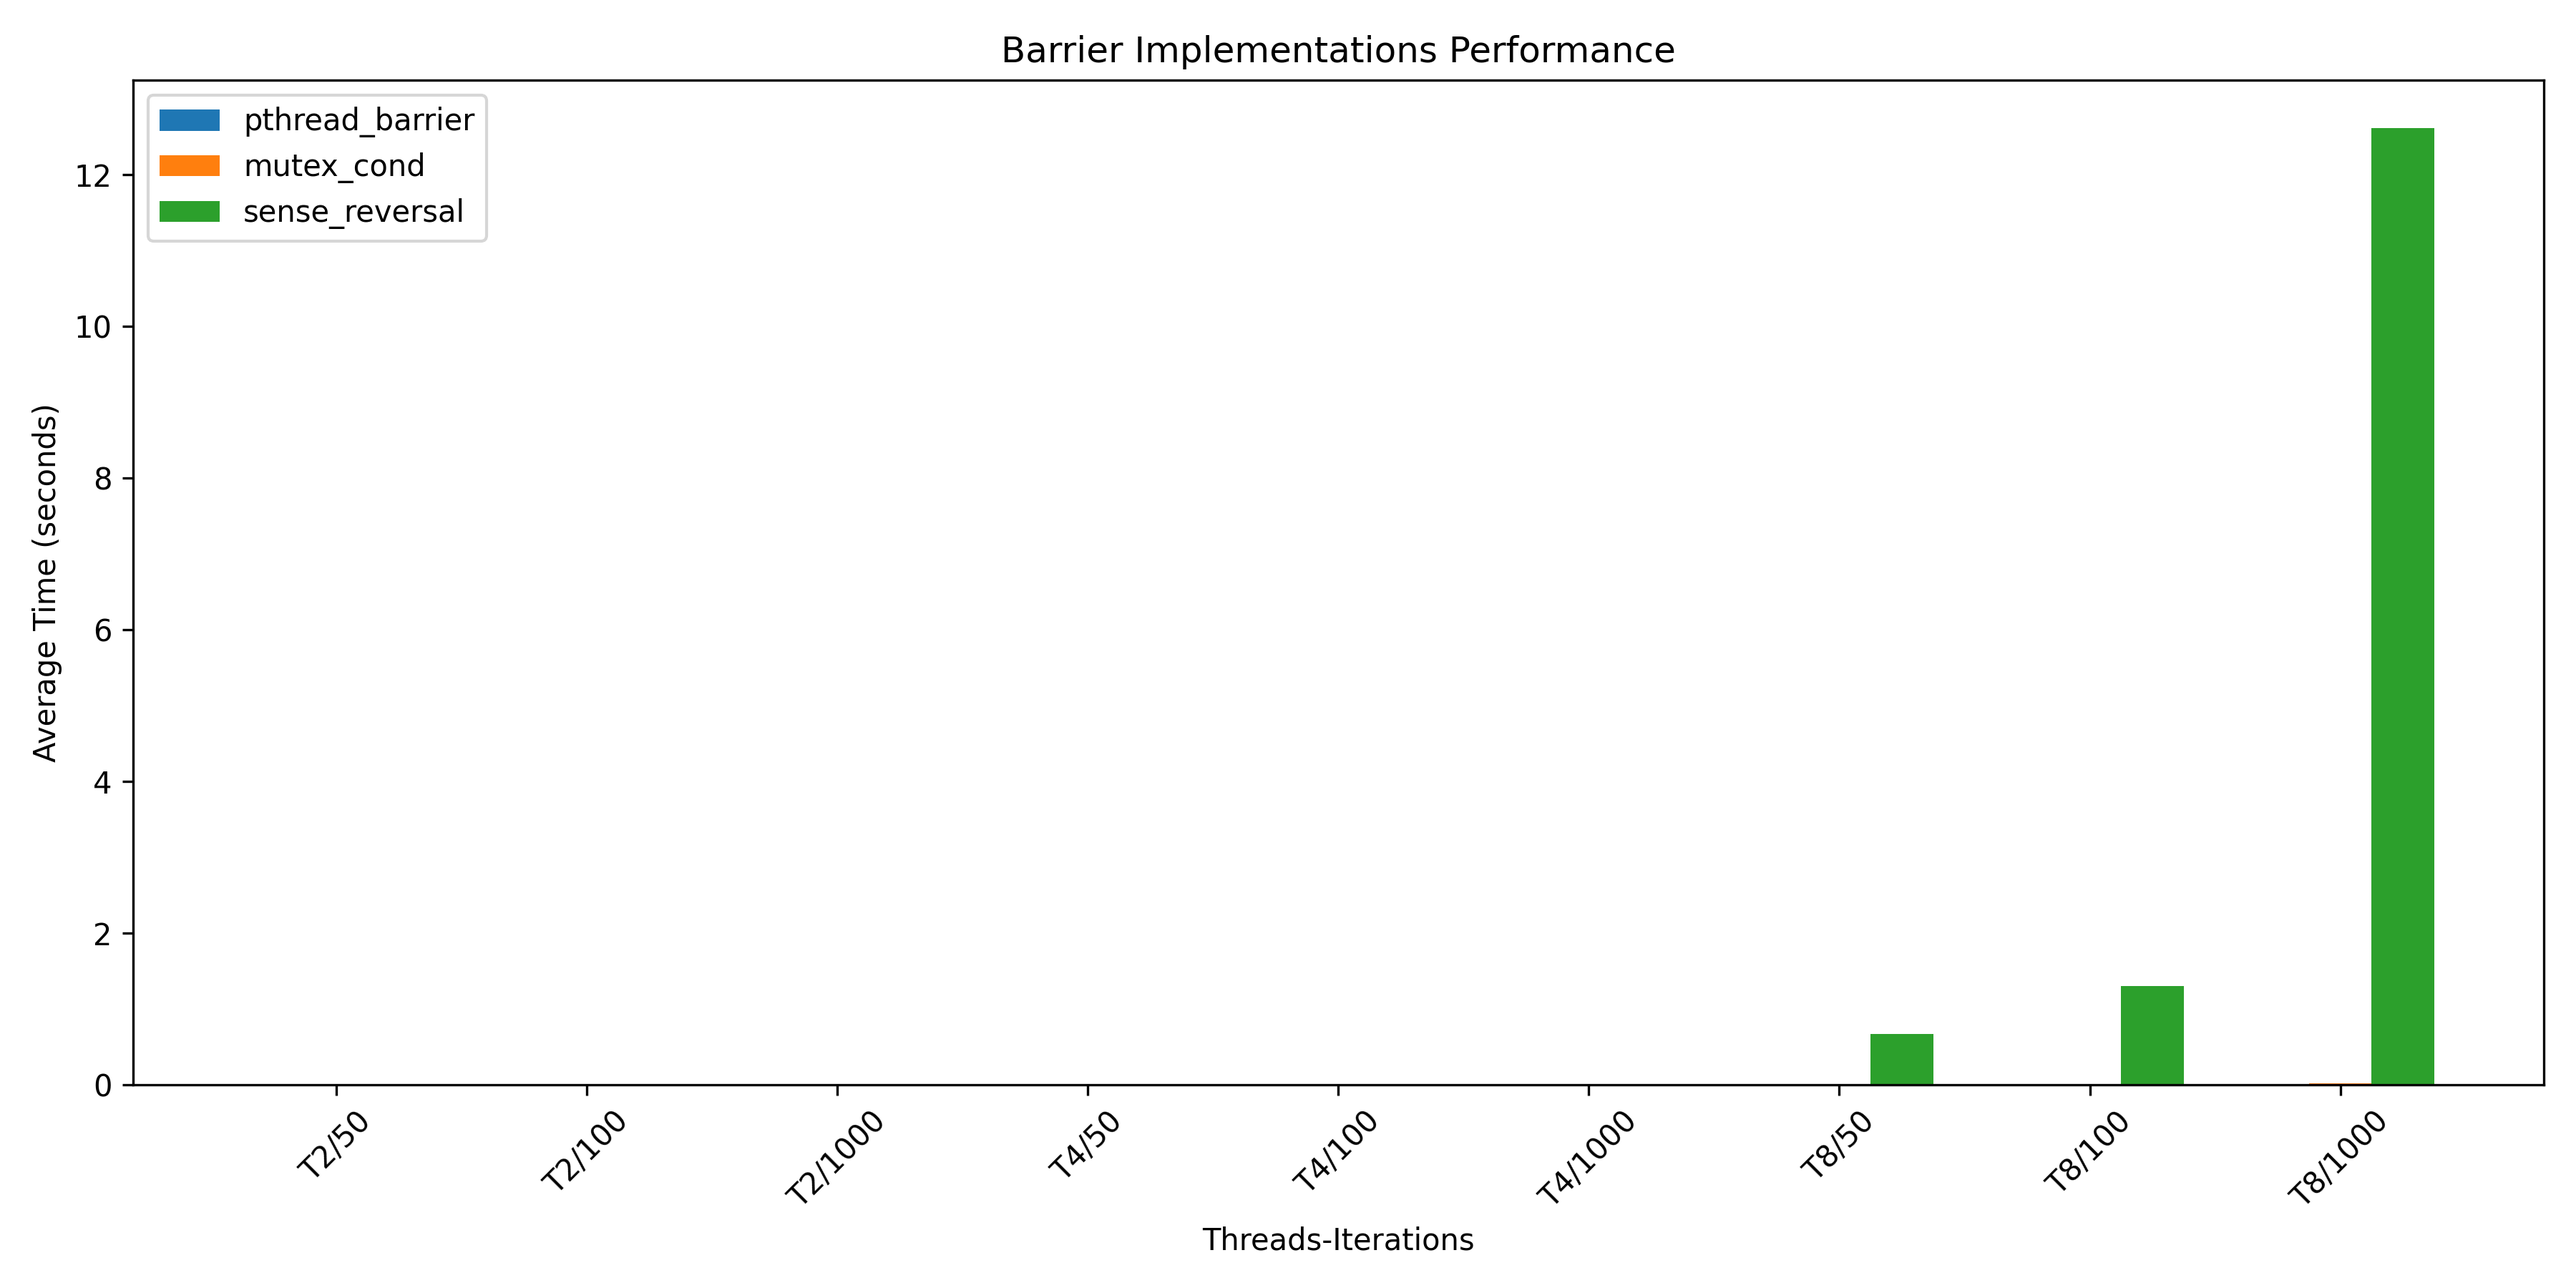
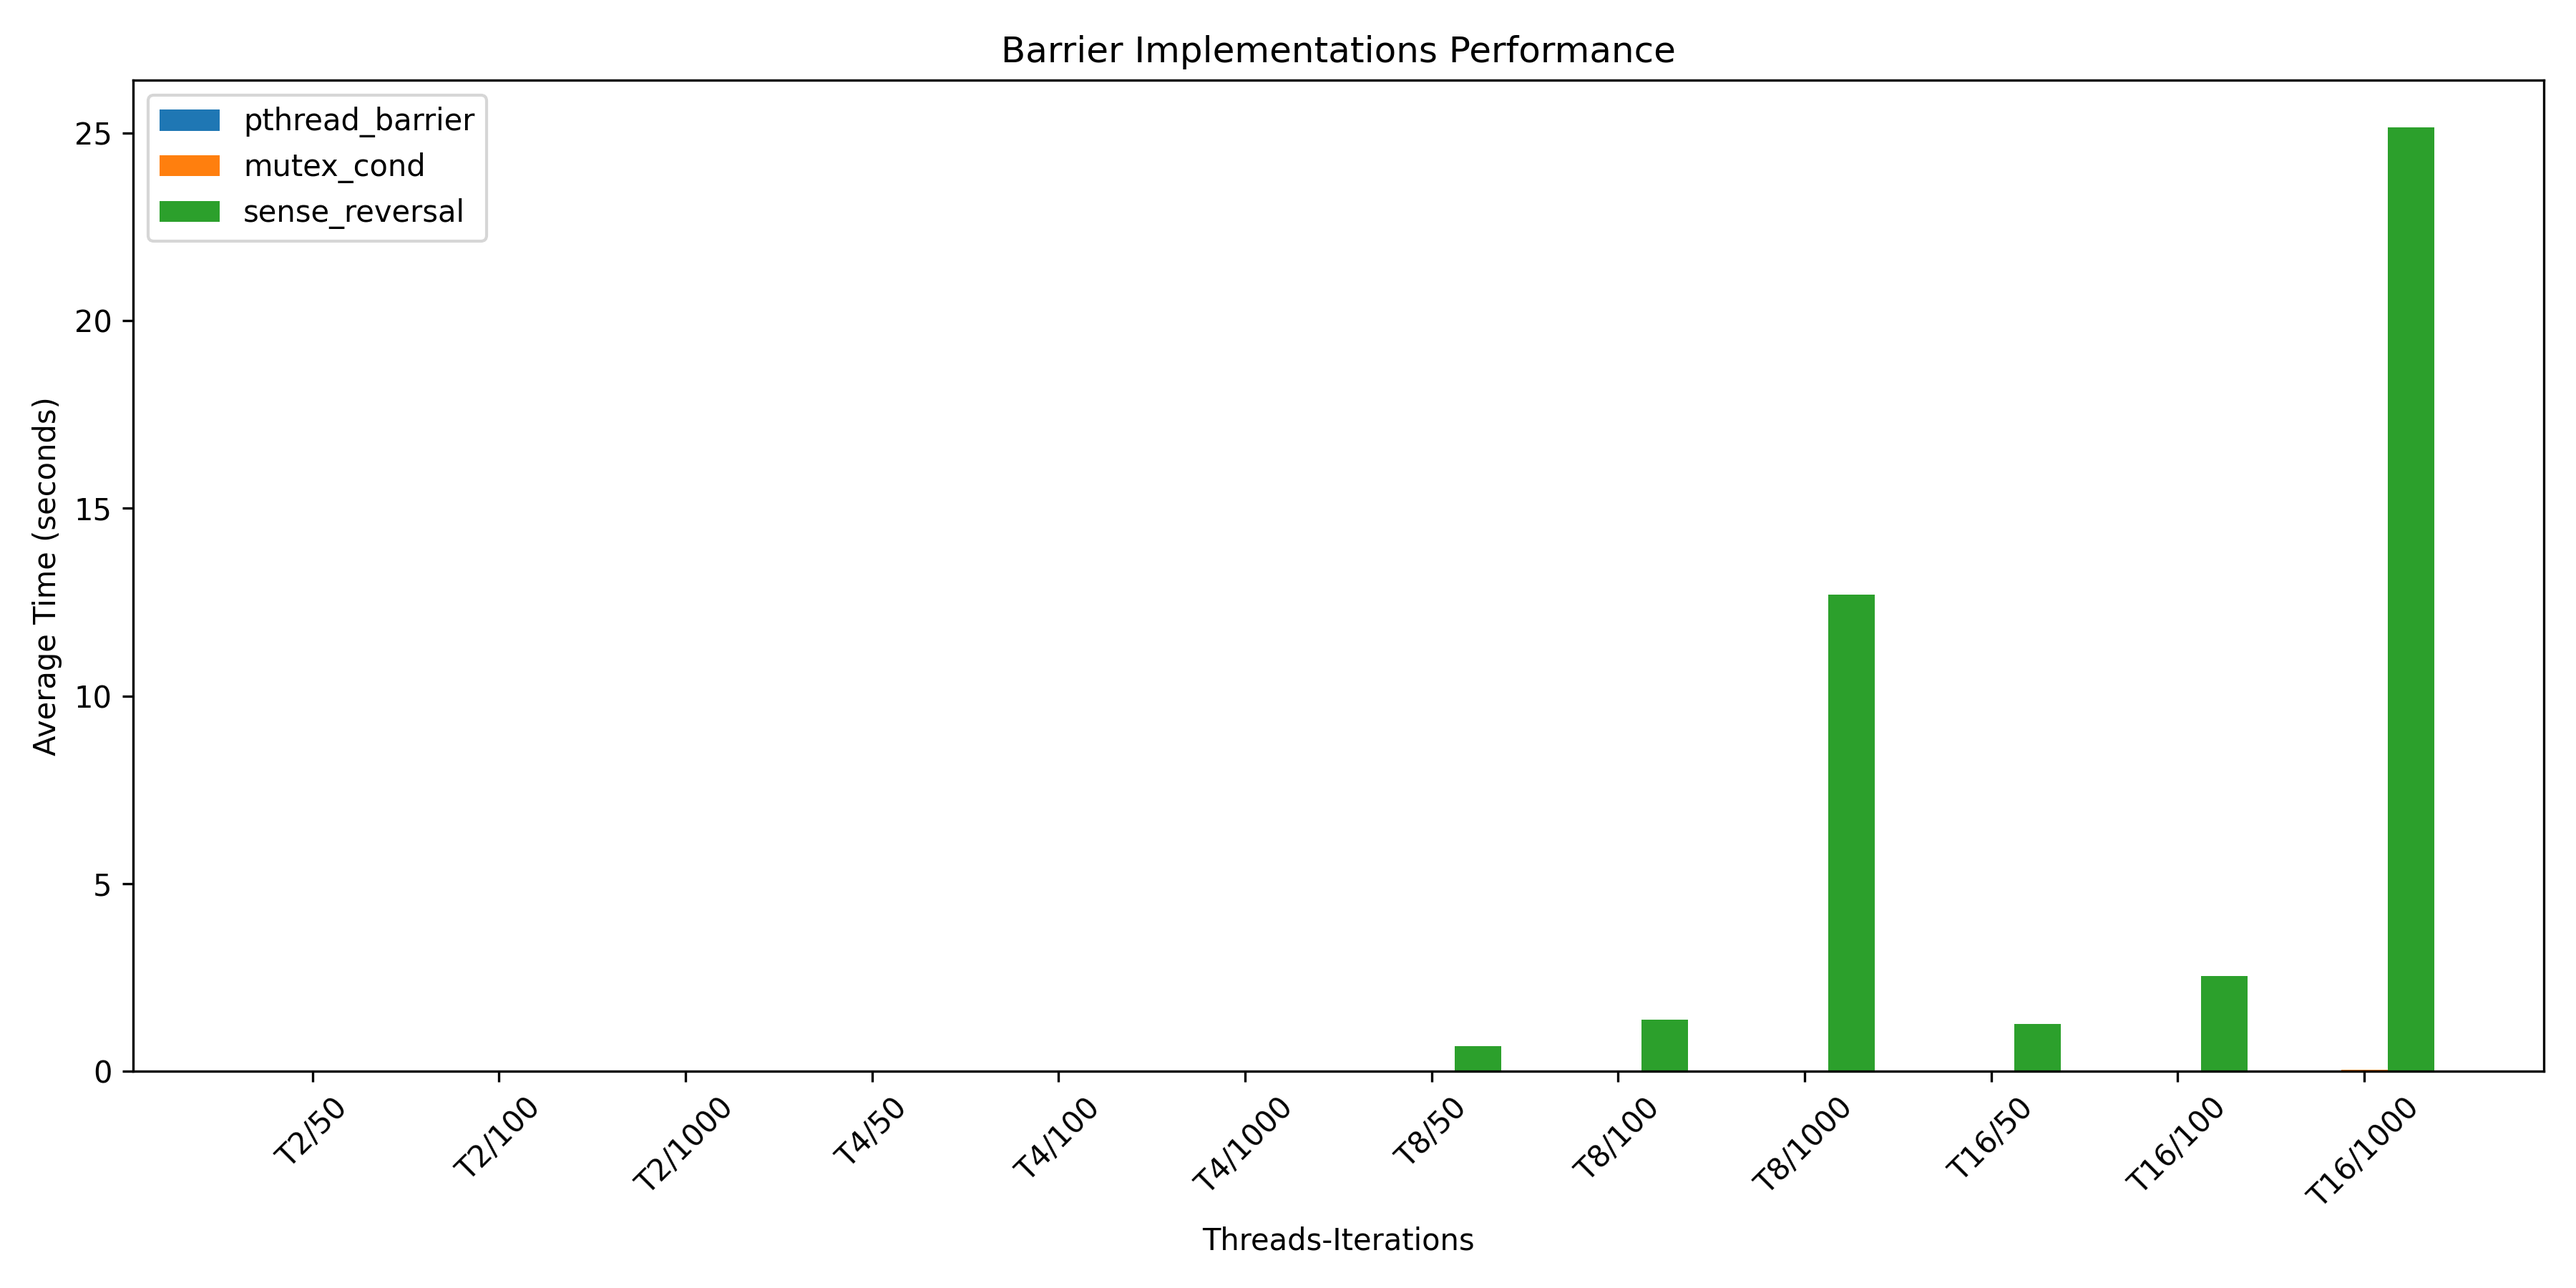
finished

diff --git a/Assignment-1/Exercise-5/exercise_5_3.c b/Assignment-1/Exercise-5/exercise_5_3.c
@@ -1,95 +1,103 @@
 #include <stdio.h>
 #include <stdlib.h>
 #include <pthread.h>
+#include <stdbool.h>
 #include <sys/time.h>
 
-struct barrier_args{
-    int barrier_count ; // Number of threads that have reached the barrier
-    int n;     
+typedef struct  {
+    int barrier_count; //  Number of threads that have reached the barrier     
     int num_threads;   
-    int sense;   // 0 or 1 if we are using sense reversal  
+    bool sense;          // current sense of the barrier(0 or 1)
     pthread_mutex_t mutex;
-} ;
-typedef struct barrier_args* BarrierArgs;
+}thread_barier ;
 
+void barrier_init(thread_barier* b, int num_threads);        
+void barrier_destroy(thread_barier* b);
+void barrier_wait(thread_barier* b, int* local_sense);  
 void* thread_function(void* arg);
-void barrier_init(BarrierArgs b,int n, int num_threads) ;
 
+thread_barier barrier;
 
 int main(int argc, char* argv[]) {
+    
+    // Check for correct number of command-line arguments
     if (argc != 3) {
         fprintf(stderr, "Usage: %s NUM_THREADS N\n", argv[0]);
         return 1;
     }
-
     int num_threads = atoi(argv[1]);
     int n = atoi(argv[2]);
 
-    //Start measuring time
+    //Start measuring time 
     struct timeval start, end;
     double time_taken;
     gettimeofday(&start, NULL);
 
-
+    // Allocate barrier and create threads
     pthread_t threads[num_threads];
-    BarrierArgs args= malloc(sizeof(struct barrier_args));
-    barrier_init(args, n, num_threads);
+    barrier_init(&barrier, num_threads);
 
+    // Send the numbers of iterations through thread function argument
     for (int i = 0; i < num_threads; i++) {
-        pthread_create(&threads[i], NULL, thread_function, (void*)args);
+        pthread_create(&threads[i], NULL, thread_function, &n);
     }
 
+    //wait for all threads to finish         
     for (int i = 0; i < num_threads; i++) {
         pthread_join(threads[i], NULL);
     }
 
-    pthread_mutex_destroy(&args->mutex);
-    free(args);
+    pthread_mutex_destroy(&barrier.mutex);
 
-    //End measuring time
+    // End measuring time
     gettimeofday(&end, NULL);
     time_taken = (end.tv_sec - start.tv_sec) + (end.tv_usec - start.tv_usec) / 1e6;
     printf("Time taken: %f seconds\n", time_taken);
-
 
     return 0;
 }
 
 void* thread_function(void* arg) {
-    
-    BarrierArgs args = (BarrierArgs)arg;
+    int n = *((int*)arg);
+    int local_sense = 0;
 
-    
-    // barrier implementation using sense reversal
-    for (int i = 0; i < args->n; i++) {
-
-        int local_sense = 1 - args->sense; // flip local sense
-        pthread_mutex_lock(&args->mutex);
-
-        args->barrier_count++;
-        
-        if (args->barrier_count == args->num_threads) {
-            args->barrier_count = 0;
-            args->sense = local_sense; // flip the sense
-            pthread_mutex_unlock(&args->mutex);
-        } else {
-            pthread_mutex_unlock(&args->mutex);
-            while (args->sense != local_sense) {
-                // busy wait
-            }
-        }
-    
-        
-        
+    for (int i = 0; i <n; i++) {
+        barrier_wait(&barrier, &local_sense);
     }
     
     return NULL;
 }
 
-void barrier_init(BarrierArgs b, int n, int num_threads) {
+void barrier_init(thread_barier* b, int num_threads) {
     b->barrier_count = 0;
-    b->n = n;
     b->num_threads = num_threads;
     b->sense = 0;
     pthread_mutex_init(&b->mutex, NULL);
+}
+
+void barrier_wait(thread_barier* b, int* local_sense) {
+
+    //Flip the local sense for this thread to indicate its arrival at the barrier
+    *local_sense = !(*local_sense); 
+
+    //Lock mutex before updating the shared barrier count
+    pthread_mutex_lock(&b->mutex);
+    b->barrier_count++;
+
+    //If this is the last thread to reach the barrier  reset the count for next use , 
+    // update the global sense to signal and wake up all the threads  to continue 
+    if (b->barrier_count == b->num_threads) {
+        b->barrier_count = 0;
+        b->sense = *local_sense;
+        pthread_mutex_unlock(&b->mutex);
+
+    //if we are not on the last thread then unlock the mutex and wait until the global sense changes
+    //this means that the last thread has arrived and changed the global sense
+    } else {
+        pthread_mutex_unlock(&b->mutex);
+        
+        while (b->sense != *local_sense) {
+            // busy wait
+        }
+    }
 }

diff --git a/Assignment-1/Exercise-5/script.py b/Assignment-1/Exercise-5/script.py
@@ -10,7 +10,7 @@ programs = {
     "sense_reversal": "./exercise_5_3"
 }
 
-threads = [2, 4, 8]
+threads = [2, 4, 8,16]
 iterations = [50,100 ,1000]
 runs = 5
 
